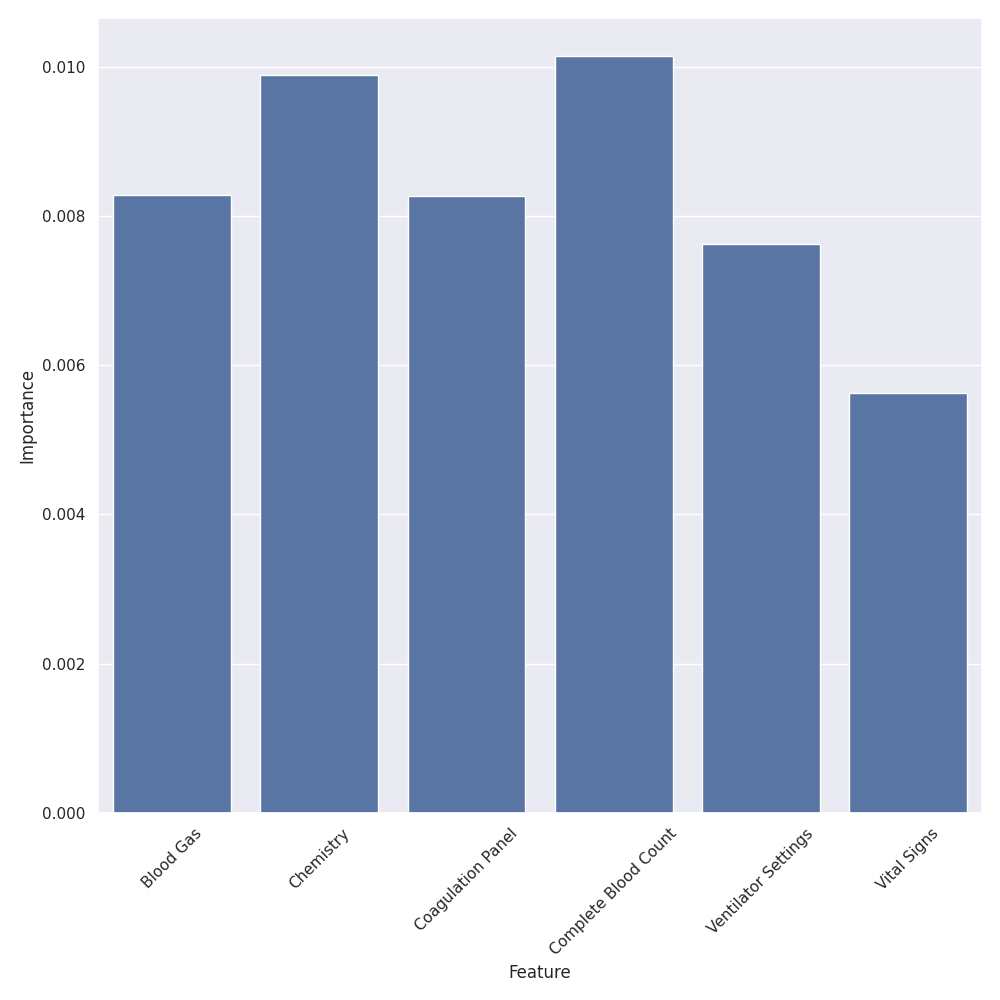
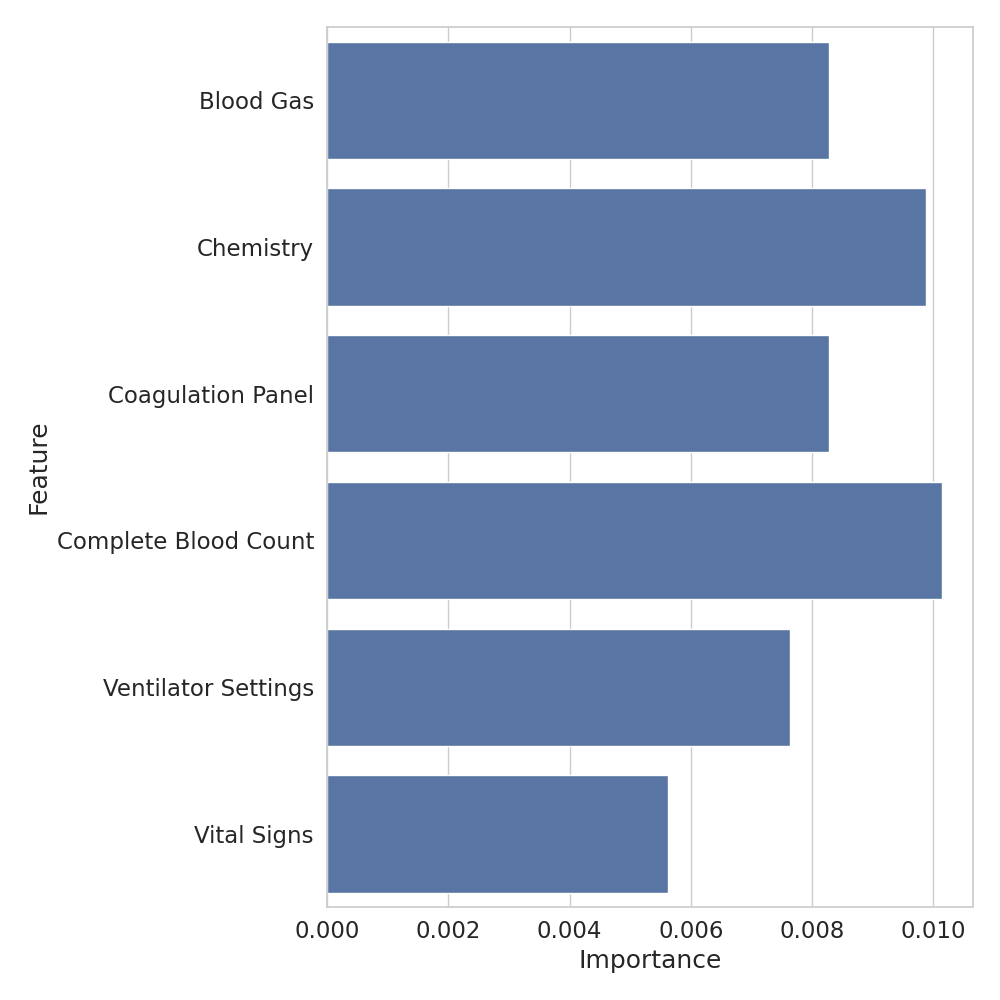
Plot reformatting

diff --git a/src/tabsep/reporting/performanceVsTime.py b/src/tabsep/reporting/performanceVsTime.py
@@ -37,8 +37,8 @@ def bootstrapping_auprc(y_test, preds):
 if __name__ == "__main__":
     plottable = {
         "Model": list(),
-        "AUPRC Scores": list(),
-        "Prediction Window (Hrs.)": list(),
+        "Area Under the Precision-Recall Curve (AUPRC)": list(),
+        "Prediction Window (Hours)": list(),
     }
     pretty_model_names = {
         "TST": "Time Series Transformer",
@@ -56,8 +56,10 @@ if __name__ == "__main__":
             bootstrapped_auprcs = bootstrapping_auprc(y_test, preds)
 
             plottable["Model"] += [pretty_model_names[model]] * len(bootstrapped_auprcs)
-            plottable["AUPRC Scores"] += bootstrapped_auprcs
-            plottable["Prediction Window (Hrs.)"] += [window_idx] * len(
+            plottable[
+                "Area Under the Precision-Recall Curve (AUPRC)"
+            ] += bootstrapped_auprcs
+            plottable["Prediction Window (Hours)"] += [window_idx] * len(
                 bootstrapped_auprcs
             )
 
@@ -85,12 +87,12 @@ if __name__ == "__main__":
 
     plottable = pd.DataFrame(data=plottable)
 
-    sns.set(rc={"figure.figsize": (11.7, 8.27)})
+    sns.set_theme(style="whitegrid", font_scale=1.75, rc={"figure.figsize": (10, 12)})
 
-    sns.barplot(
+    ax = sns.barplot(
         data=plottable,
-        x="Prediction Window (Hrs.)",
-        y="AUPRC Scores",
+        x="Prediction Window (Hours)",
+        y="Area Under the Precision-Recall Curve (AUPRC)",
         hue="Model",
         hue_order=pretty_model_names.values(),
         errorbar=(
@@ -102,6 +104,8 @@ if __name__ == "__main__":
         ),
         capsize=0.1,
     )
+    sns.move_legend(ax, "upper right", title="Legend")
+    # plt.legend(title="Legend")
 
     plt.savefig("results/performanceVsTime.png")
 

diff --git a/src/tabsep/reporting/table1.py b/src/tabsep/reporting/table1.py
@@ -27,6 +27,12 @@ class Table1Generator(object):
             on=["stay_id", "subject_id"],
         )
 
+        self.all_df = self.all_df.merge(
+            pd.read_csv("mimiciv/core/admissions.csv")[["hadm_id", "ethnicity"]],
+            how="left",
+            on="hadm_id",
+        )
+
         diagnoses_icd = pd.read_csv("mimiciv/hosp/diagnoses_icd.csv")
         diagnoses_icd = (
             diagnoses_icd[["hadm_id", "icd_code"]]
@@ -104,11 +110,14 @@ class Table1Generator(object):
     def _tablegen_general_demographics(self) -> None:
         for demographic_name in [
             "gender",
-            "race",
+            "ethnicity",
             "hospital_expire_flag",
         ]:
             for key, value in (
-                self.all_df[demographic_name].value_counts().to_dict().items()
+                self.all_df[demographic_name]
+                .value_counts(dropna=False)
+                .to_dict()
+                .items()
             ):
                 self._add_table_row(
                     f"[{demographic_name}] {key}", self._pprint_percent(value)

diff --git a/src/tabsep/reporting/featureImportance.py b/src/tabsep/reporting/featureImportance.py
@@ -115,16 +115,18 @@ def plot_groupped_importances(path: str, tst_attribs: torch.Tensor, tabnet_attri
         {"Importance": "mean"}
     )
     print(plottable)
-    sns.set(rc={"figure.figsize": (10, 10)})
-    sns.set_theme()
+    sns.set_theme(style="whitegrid", font_scale=1.75, rc={"figure.figsize": (20, 10)})
     ax = sns.barplot(
-        x="Feature",
-        y="Importance",
+        y="Feature",
+        x="Importance",
         data=plottable,
         hue="Model",
         hue_order=["Time Series Transformer", "TabNet"],
+        orient="h",
     )
-    plt.xticks(rotation=45)
+    # sns.move_legend(ax, "upper left", bbox_to_anchor=(1, 1))
+    plt.legend(title="Legend")
+    plt.xticks(rotation=270)
     plt.tight_layout()
     plt.savefig(path)
     plt.clf()

diff --git a/src/tabsep/reporting/attribHeatmap.py b/src/tabsep/reporting/attribHeatmap.py
@@ -27,10 +27,10 @@ def plot_groupped_importances(path: str, attribs):
         {"Importance": "mean"}
     )
     print(plottable)
-    sns.set(rc={"figure.figsize": (10, 10)})
-    sns.set_theme()
-    ax = sns.barplot(x="Feature", y="Importance", data=plottable, color="b")
-    plt.xticks(rotation=45)
+
+    sns.set_theme(style="whitegrid", font_scale=1.5, rc={"figure.figsize": (10, 10)})
+    ax = sns.barplot(y="Feature", x="Importance", data=plottable, color="b", orient="h")
+    # plt.xticks(rotation=45)
     plt.tight_layout()
     plt.savefig(path)
     plt.clf()

diff --git a/src/tabsep/reporting/featureImportanceTime.py b/src/tabsep/reporting/featureImportanceTime.py
@@ -63,8 +63,7 @@ if __name__ == "__main__":
         value_name="Average Absolute Attribution",
     )
 
-    sns.set(rc={"figure.figsize": (10, 10)})
-    sns.set_theme()
+    sns.set_theme(style="whitegrid", font_scale=1.75, rc={"figure.figsize": (10, 10)})
     ax = sns.lineplot(
         data=plottable,
         x="Hours to Sepsis Prediction",
@@ -73,6 +72,7 @@ if __name__ == "__main__":
     )
     ax.invert_xaxis()
     # plt.xticks(rotation=45)
+    plt.legend(title="Legend")
     plt.tight_layout()
     plt.savefig("results/importanceTime.png")
     plt.clf()

diff --git a/src/tabsep/dataProcessing/derived2tensor.py b/src/tabsep/dataProcessing/derived2tensor.py
@@ -284,7 +284,7 @@ if __name__ == "__main__":
     pd.set_option("mode.chained_assignment", None)
 
     if len(sys.argv) < 2:
-        lookahead_hrs = 0
+        lookahead_hrs = 3
     else:
         lookahead_hrs = int(sys.argv[1])
 
